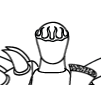
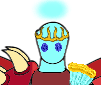
Coloured Wadon, finished up boss drops and inspect

diff --git a/commands/Game/inspect.js b/commands/Game/inspect.js
@@ -1,6 +1,6 @@
 const { SlashCommandBuilder, AttachmentBuilder, EmbedBuilder } = require('discord.js');
 
-const { UserData, UniqueCrafted, Loadout, Pigmy, ItemStrings, ItemLootPool } = require('../../dbObjects.js');
+const { UserData, UniqueCrafted, Loadout, Pigmy, ItemStrings, ItemLootPool, OwnedPotions } = require('../../dbObjects.js');
 
 const {findChestSlot, findHelmSlot, findLegSlot, findMainHand, findOffHand, findPotion} = require('../Game/exported/findLoadout.js');
 const {userDamageLoadout} = require('../Game/exported/dealDamage.js');
@@ -15,7 +15,7 @@ const uniqueLootList = require('../../events/Models/json_prefabs/uniqueLootList.
 const potCatEffects = require('../../events/Models/json_prefabs/activeCategoryEffects.json');
 const { createSingleUniItem, uni_displayItem } = require('../Development/Export/itemStringCore.js');
 const { loadDamageItems, loadDefenceItems } = require('../Development/Export/finalCombatExtras.js');
-const { sendTimedChannelMessage } = require('../../uniHelperFunctions.js');
+const { sendTimedChannelMessage, grabUser } = require('../../uniHelperFunctions.js');
 
 const UI = [
 	'./events/Models/json_prefabs/image_extras/user-inspect/gold-frame-menu.png',
@@ -82,6 +82,12 @@ module.exports = {
             const load = await Loadout.findOne({where: {spec_id: givenUser.id}});
             if (!load) return await interaction.followUp('This user does not have a loadout!');
 
+            const theUser = await grabUser(givenUser.id);
+
+            // Implement standard playerInstance loading object values
+            // Generate display from stored values
+
+
             const loadoutIDs = [load.mainhand, load.offhand, load.headslot, load.chestslot, load.legslot, load.potionone];
             const slotMatch = ["Mainhand", "Offhand", "Headslot", "Chestslot", "Legslot", "Potion"];
 
@@ -96,17 +102,34 @@ module.exports = {
                     .setDescription('No item equipped!');
                 } else {
                     if (idxSlot !== 5){
-                        let itemMatch = await ItemStrings.findOne({where: {user_id: givenUser, item_id: id}});
+                        let itemMatch = await ItemStrings.findOne({where: {user_id: givenUser.id, item_id: id}});
                         if (!itemMatch){
                             // Backup Check
                             const backupCheck = await ItemLootPool.findOne({where: {creation_offset_id: id}});
                             if (!backupCheck){
                                 // Last Check, JSON Loot List
-                                // const staticCheck = lootList.filter(item => item.Loot_id === id)[0];
-                                // itemMatch = createSingleUniItem(staticCheck);
+                                const staticCheck = lootList.filter(item => item.Loot_id === id)[0];
+                                let formatItem = createSingleUniItem(staticCheck);
+
+                                formatItem = {
+                                    name: formatItem.name,
+                                    item_code: formatItem.itemStringCode,
+                                    value: formatItem.value,
+                                    caste_id: formatItem.casteID
+                                };
+
+                                const formItemDets = uni_displayItem(formatItem, "Single");
                                 embed
-                                .setTitle(`${slotMatch[idxSlot]} Empty`)
-                                .setDescription('Item could not be found!');
+                                .setTitle(`${slotMatch[idxSlot]} Currently Equipped`)
+                                .setColor(formItemDets.color)
+                                .addFields(formItemDets.fields);
+                                
+                                stringCodeList.push({item_code: formatItem.item_code});
+                                
+                                idxSlot++;
+                                embedList.push(embed);
+                                
+                                continue;
                             } else itemMatch = backupCheck;
                         } 
     
@@ -114,7 +137,7 @@ module.exports = {
                             stringCodeList.push({item_code: itemMatch.item_code});
                             const itemDetails = uni_displayItem(itemMatch, "Single");
                             embed
-                            .setTitle('Currently Equipped')
+                            .setTitle(`${slotMatch[idxSlot]} Currently Equipped`)
                             .setColor(itemDetails.color)
                             .addFields(itemDetails.fields);
                         } else stringCodeList.push({item_code: "None"});
@@ -134,16 +157,37 @@ module.exports = {
                 embedList.push(embed);
             }
 
-            const finalDamageList = loadDamageItems(stringCodeList[0], stringCodeList[1]);
+            const finalDamageList = loadDamageItems(stringCodeList[0].item_code, stringCodeList[1].item_code);
             const loadComp = {
-                offhand: stringCodeList[1],
-                headslot: stringCodeList[2],
-                chestslot: stringCodeList[3],
-                legslot: stringCodeList[4]
+                offhand: stringCodeList[1].item_code,
+                headslot: stringCodeList[2].item_code,
+                chestslot: stringCodeList[3].item_code,
+                legslot: stringCodeList[4].item_code
             };
             const finalDefenceList = loadDefenceItems(loadComp);
 
-            const totalDamage = finalDamageList.reduce((acc, obj) => {
+
+            function handleDamageMods(){
+                const dmgModC = ["Mage", "Thief", "Warrior", "Paladin"];
+                const dmgModM = [0.15, 0, 0.05, -0.05];
+                const modBy = 1 + dmgModM[dmgModC.indexOf(theUser.pclass)];
+
+                const totDmgBoost = (theUser.strength * 3) + (theUser.intelligence * 10);
+                const classDmgMult = modBy;
+
+                const shallowDmgList = [];
+                const dmgDistCheck = finalDamageList.filter(dmgObj => dmgObj.DMG > 0);
+                const flatBoost = totDmgBoost / dmgDistCheck.length;
+
+                for (const dmgObj of finalDamageList){
+                    if (dmgObj.DMG === 0) continue;
+                    shallowDmgList.push({Type: dmgObj.Type, DMG: (dmgObj.DMG * classDmgMult) + flatBoost});
+                }
+
+                return shallowDmgList;
+            }
+
+            const totalDamage = handleDamageMods().reduce((acc, obj) => {
                 return (acc > 0) ? acc + obj.DMG : obj.DMG;
             }, 0);
             const totalDefence = finalDefenceList.reduce((acc, obj) => {
@@ -163,7 +207,7 @@ module.exports = {
 
             embedList.push(defEmbed, dmgEmbed);
 
-            return await sendTimedChannelMessage(interaction, 360000, {embeds: [embedList]}, "FollowUp");
+            return await sendTimedChannelMessage(interaction, 360000, {embeds: embedList}, "FollowUp");
         } else if (interaction.options.getString('style') === 'newView'){
             //Turn this into an image
             // Show loadout as character with plugnplay equipment

diff --git a/commands/Development/Export/combatContainer.js b/commands/Development/Export/combatContainer.js
@@ -202,30 +202,36 @@ function genGearPiece(){
 //       LOOKUP TABLES
 // ===============================
 
-const fleshTypes = ["Flesh", "Magical Flesh", "Specter", "Boss"];
+const fleshTypes = ["Flesh", "Magical Flesh", "Specter", "Hellion", "Boss"];
 const armorTypes = ["Armor", "Bark", "Fossil", "Demon"];
 const shieldTypes = ["Phase Demon", "Phase Aura", /*"Plot Armor"*/];
 
 const damageModifier = [-0.75, -0.50, -0.25, 0, 0.25, 0.50, 0.75];
 const damageKeyIndexer = ["---", "--", "-", "=", "+", "++", "+++"];
 
-const columnMatch = ["Flesh", "Armor", "Bark", "Fossil", "Magical Flesh", "Specter", "Demon", "Phase Demon", "Phase Aura", "Boss", "Plot Armor"];
-const rowMatch = ["Blunt", "Slash", "Magic", "Rad", "Frost", "Fire", "Dark", "Light", "Null", "Pain", "Spirit", "Chaos", "True"];
+const columnMatch = ["Flesh", "Armor", "Bark", "Fossil", "Magical Flesh", "Specter", "Hellion", "Demon", "Phase Demon", "Phase Aura", "Boss", "Plot Armor"];
+const rowMatch = ["Blunt", "Slash", "Magic", "Rad", "Frost", "Fire", "Dark", "Light", "Null", "Pain", "Spirit", "Chaos", "Nessy", "True"];
 
+/**
+ *      Column = Enemy HP Type
+ *      
+ *      Row = Player DMG Type
+ */
 const damageMatchTable = [
-    ["+", "+++", "+", "++", "-", "---", "=", "=", "---", "-", "---",],
-    ["++", "-", "+", "-", "+", "---", "=", "=", "---", "-", "---"],
-    ["=","=","=","=","--","++","+","-","-","-", "---"],
-    ["+++","+","=","=","++","--","+","+","++","+", "---"],
-    ["+","++","++","-","-","-","++","--","-","-", "---"],
-    ["++", "-", "+++", "-", "-", "-", "-", "-", "-", "-", "---"],
-    ["=","=","+","=","-","--","--","+++","-","-", "---"],
-    ["=","=","--","=","-","+++","+++","--","-","-", "---"],
-    ["=","=","=","=","+++","=","+","++","+++","++", "---"],
-    ["++","+","+","+","+","+","+","+","+","++", "---"],
-    ["+","+","+","+","++","+","+","+","+","++", "---"],
-    ["++","+","+","+","+","+","+","+","+","++", "---"],
-    ["=", "=", "=", "=", "=", "=", "=", "=", "=", "--", "---",]
+    ["+", "+++", "+", "++", "-", "---", "-", "=", "=", "---", "-", "---",],
+    ["++", "-", "+", "-", "+", "---", "=", "=", "=", "---", "-", "---"],
+    ["=", "=", "=", "=", "--", "++", "-", "+","-","-","-", "---"],
+    ["+++", "+", "=", "=", "++", "--", "--", "+","+","++","+", "---"],
+    ["+", "++", "++", "-", "-", "-", "+++", "++","--","-","-", "---"],
+    ["++", "-", "+++", "-", "-", "-", "---", "-", "-", "-", "-", "---"],
+    ["=", "=", "+", "=", "-", "--", "--", "--","+++","-","-", "---"],
+    ["=", "=", "--", "=", "-", "+++", "++", "+++","--","-","-", "---"],
+    ["=", "=", "=", "=", "+++", "=", "+", "+","++","+++","++", "---"],
+    ["++", "+", "+", "+", "+", "+", "-", "+","+","+","++", "---"],
+    ["+", "+", "+", "+", "++", "+", "+", "+","+","+","++", "---"],
+    ["++", "+", "+", "+", "+", "+", "-", "+","+","+","++", "---"],
+    ["=", "=", "=", "=", "=", "+", "+", "+", "+", "+", "++", "---"],
+    ["=", "=", "=", "=", "=", "=", "=", "=", "=", "=", "--", "---",]
 ];
 
 // ===============================

diff --git a/commands/Game/dungeon.js b/commands/Game/dungeon.js
@@ -39,6 +39,7 @@ const { attackEnemy, handleActiveStatus, applyActiveStatus } = require('../Devel
 const { EnemyFab, xpPayoutScale } = require('../Development/Export/Classes/EnemyFab.js');
 const { handleLootDrops } = require('../Development/Export/questUpdate.js');
 const { handleUserPayout } = require('../Development/Export/uni_userPayouts.js');
+const { createNewBlueprint } = require('./exported/createBlueprint.js');
 
 const loadCombButts = (player) => {
     const attackButton = new ButtonBuilder()
@@ -444,6 +445,11 @@ module.exports = {
 						return nextEnemy;
 					}
 				}
+
+				if (bossStage === 3){
+					// Boss killed, handle payouts here
+					return handleBossPayouts(dungeonRef.Boss);
+				}
 				
 				// Do boss floor stuff here
 				bossStage++;
@@ -522,6 +528,45 @@ module.exports = {
 				return {bossEmbeds, thumbFile};
 			}
 
+			/**
+			 * This function handles giving boss kill rewards. This includes blueprints
+			 * coins, xp, and achievements. It also sets the dungeon as completed allowing
+			 * for storyline progress to continue!
+			 * @param {string} boss The name of the boss to use as a reference
+			 */
+			async function handleBossPayouts(boss){
+				await dungeon.update({completed: true}).then(async d => await d.save()).then(async d => {return await d.reload()});
+
+				const bossRef = bossList.filter(b => b.NameRef === boss && b.Stage === 3)[0];
+				const bossXP = inclusiveRandNum(bossRef.XpMax, bossRef.XpMin);
+				const bossCoin = bossXP * 1.3;
+
+				await handleUserPayout(bossXP, bossCoin, interaction, await grabUser(player.userId));
+
+				const bossDrops = {
+					bpName: bossRef.Blueprint,
+					bpID: bossRef.BlueprintID,
+					sbpID: bossRef.SecretBPID,
+					achive: bossRef.AchievementGet
+				};
+
+				await createNewBlueprint(bossDrops.bpID, player.userId);
+				await createNewBlueprint(bossDrops.sbpID, player.userId);
+
+				const bossDefeatedEmbed = new EmbedBuilder()
+				.setTitle('BOSS DEFEATED')
+				.setColor('DarkAqua')
+				.addFields(
+					{name: 'XP Gained: ', value: `${bossXP}`, inline: true},
+					{name: 'Coins Gained: ', value: `${bossCoin}`, inline: true}
+				)
+				.addFields(
+					{name: 'BLUEPRINT UNLOCKED: ', value: `${bossDrops.bpName}`},
+					{name: 'ACHIEVEMENT UNLOCKED: ', value: `${bossDrops.achive}`}
+				);
+
+				await sendTimedChannelMessage(interaction, 120000, bossDefeatedEmbed);
+			}
 
 			/**
 			 * This function handles payouts, healing, and dungeon updates upon reaching
@@ -835,9 +880,6 @@ module.exports = {
 		}
 
 		startDungeonHandle();
-
-
-
 
 		// ===========================
 		// 			OLD CODE

diff --git a/commands/Game/exported/displayEnemy.js b/commands/Game/exported/displayEnemy.js
@@ -205,6 +205,7 @@ function createHealthBar(enemy) {
      *  Flesh - muddy red #B56B57
      *  Magical Flesh - blueish red #8C6E7E
      *  Specter - light blue + red #47598B
+     *  Hellion - red grey #CC4125
      * 
      *  == Armor ==
      *  Armor - lighter dark grey #7E7C7C
@@ -220,8 +221,8 @@ function createHealthBar(enemy) {
      */
     // 383, 275, 213, 14
 
-    const fleshTypes = ["Flesh", "Magical Flesh", "Specter", "Boss"];
-    const fleshColours = ["#B56B57", "#8C6E7E", "#47598B", "black"];
+    const fleshTypes = ["Flesh", "Magical Flesh", "Specter", "Hellion", "Boss"];
+    const fleshColours = ["#B56B57", "#8C6E7E", "#47598B", "#CC4125", "black"];
     const fleshColour = fleshColours[fleshTypes.indexOf(enemy.flesh.Type)];
 
     const armorTypes = ["Armor", "Bark", "Fossil", "Demon"];

diff --git a/commands/Development/Export/Classes/EnemyFab.js b/commands/Development/Export/Classes/EnemyFab.js
@@ -5,8 +5,8 @@ const { grabRar } = require("../../../Game/exported/grabRar");
 const {randArrPos, inclusiveRandNum, rollChance, dropChance} = require('../../../../uniHelperFunctions');
 const hitChance = rollChance;
 
-const fleshTypes = ["Flesh", "Magical Flesh", "Specter", "Boss"];
-const staticFleshMods = [0.4, 0.25, 0.2, 0.5];
+const fleshTypes = ["Flesh", "Magical Flesh", "Specter", "Hellion", "Boss"];
+const staticFleshMods = [0.4, 0.25, 0.2, 0.25, 0.5];
 // Flesh based on Material Drop Order: [0[1st], 1[2nd], 2[3rd]];
 // MULT = 1 + (lvl * TYPE)
 /** == Flesh ==

diff --git a/commands/Development/Export/itemStringCore.js b/commands/Development/Export/itemStringCore.js
@@ -17,7 +17,8 @@ const dmgKeys = new Map([
     ["NUsp", "Null"],
     ["PAsp", "Pain"],
     ["SPsp", "Spirit"],
-    ["CHsp", "Chaos"]
+    ["CHsp", "Chaos"],
+    ["NEsp", "Nessy"]
 ]);
 
 const rarKeys = new Map([
